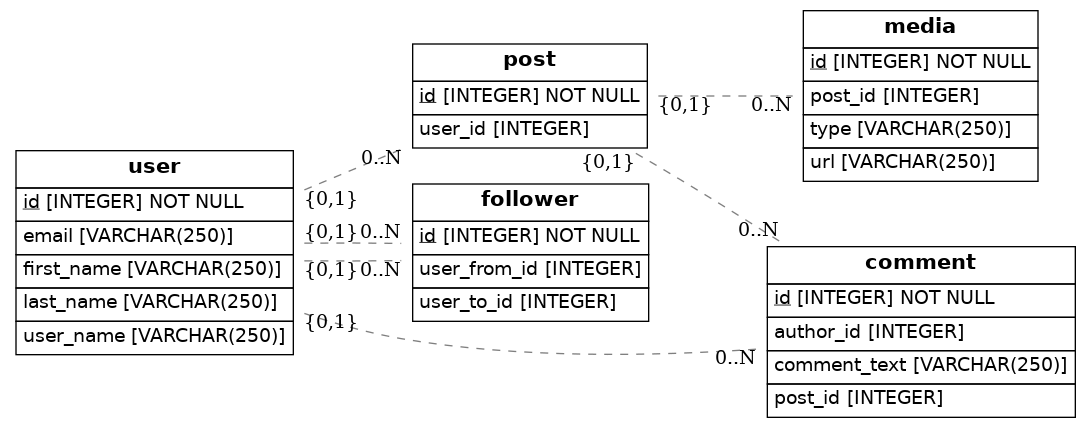
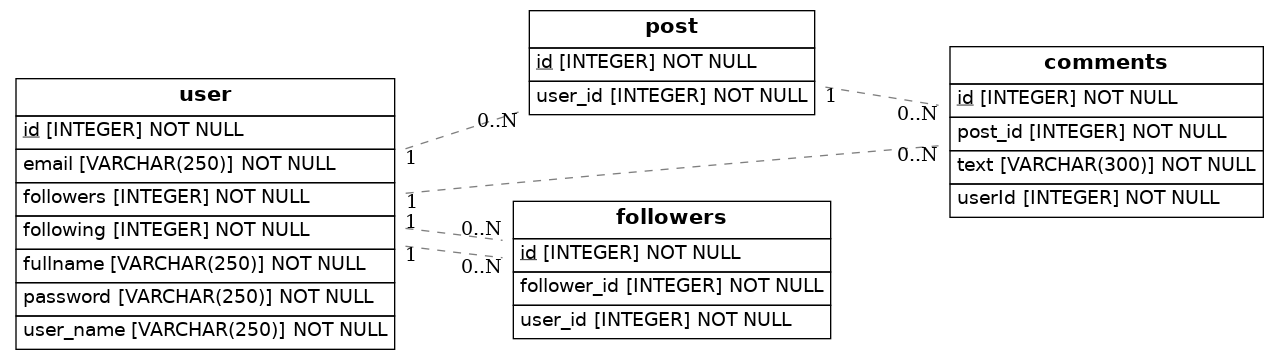
Instagram data modeling by David Alonso

Changed region(s): [[0.0, 0.0, 0.9973, 0.9805], [0.0, 0.2145, 0.3116, 0.2758], [0.4051, 0.0306, 0.4363, 0.0613]]

diff --git a/src/models.py b/src/models.py
@@ -1,8 +1,7 @@
 import os
 import sys
 from sqlalchemy import Column, ForeignKey, Integer, String
-from sqlalchemy.ext.declarative import declarative_base
-from sqlalchemy.orm import relationship
+from sqlalchemy.orm import relationship, declarative_base
 from sqlalchemy import create_engine
 from eralchemy2 import render_er
 
@@ -11,56 +10,36 @@ Base = declarative_base()
 class User(Base):
     __tablename__ = 'user'
     id = Column(Integer, primary_key=True)
-    user_name = Column(String(250))
-    first_name = Column(String(250))
-    last_name = Column(String(250))
-    email = Column(String(250))
-    def to_dict(self):
-        return {}
-    
+    fullname = Column(String(250), nullable=False)
+    user_name = Column(String(250), nullable=False)
+    email = Column(String(250), nullable=False, unique=True)
+    password = Column(String(250), nullable=False)
+    followers = Column(Integer, nullable=False)
+    following = Column(Integer, nullable=False)
+
 class Post(Base):
     __tablename__ = 'post'
-    # Here we define columns for the table address.
-    # Notice that each column is also a normal Python instance attribute.
     id = Column(Integer, primary_key=True)
-    user_id= Column(Integer, ForeignKey('user.id'))
-    def to_dict(self):
-        return {}
-    
-class Media(Base):
-    __tablename__ = 'media'
-    # Here we define columns for the table address.
-    # Notice that each column is also a normal Python instance attribute.
-    id = Column(Integer, primary_key=True)
-    type= Column(String(250))
-    url = Column(String(250))
-    post_id = Column(Integer, ForeignKey('post.id'))
+    user_id = Column(Integer, ForeignKey('user.id'), nullable=False)
 
-    def to_dict(self):
-        return {}
-   
+class Comments(Base):
+    __tablename__ = 'comments'
+    id = Column(Integer, primary_key=True)
+    text = Column(String(300), nullable=False)
+    userId = Column(Integer, ForeignKey("user.id"), nullable=False)
+    post_id = Column(Integer, ForeignKey('post.id'), nullable=False)
+    post = relationship(Post)
+
 class Follower(Base):
-    __tablename__ = 'follower'
-    # Here we define columns for the table address.
-    # Notice that each column is also a normal Python instance attribute.
+    __tablename__= "followers"
     id = Column(Integer, primary_key=True)
-    user_to_id= Column(Integer, ForeignKey('user.id'))
-    user_from_id= Column(Integer, ForeignKey('user.id'))
-
-    def to_dict(self):
-        return {}
-    
-class Comment (Base):
-    __tablename__ = 'comment'
-    id = Column(Integer, primary_key=True)
-    comment_text = Column(String(250))
-    author_id = Column(Integer, ForeignKey('user.id'))
-    post_id = Column(Integer, ForeignKey('post.id'))
+    user_id = Column(Integer, ForeignKey("user.id"), nullable=False)
+    follower_id = Column(Integer, ForeignKey("user.id"), nullable=False)
 
     def to_dict(self):
         return {}
 
-## Draw from SQLAlchemy base
+
 try:
     result = render_er(Base, 'diagram.png')
     print("Success! Check the diagram.png file")
